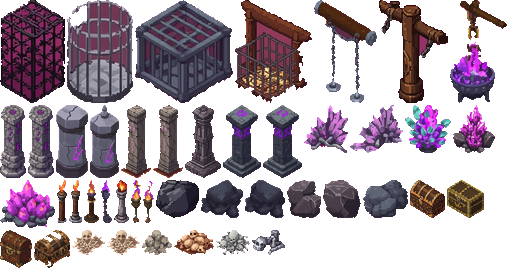
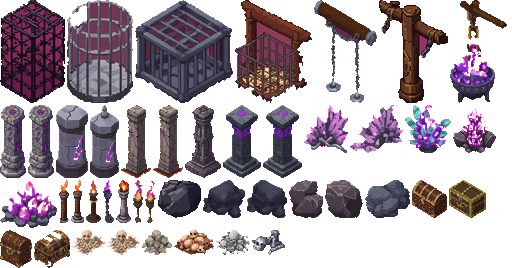
Villa Candela rehecha con arte nuevo
- Aldeanos, Brunilda, Maese Ivo y Tobías redibujados en el estilo de los héroes nuevos
- Casas, puesto del mercado, tienda del alquimista, fragua, pozo, tablón y roble nuevos
- Césped, caminos de tierra y empedrado de la plaza pintados

Claude-Session: https://claude.ai/code/session_015RNUyaQ6fKR3Ufego5oPP2

diff --git a/www/js/props_data.js b/www/js/props_data.js
@@ -1,4 +1,4 @@
 /* Generado por tools/art/build_props.py — no editar a mano. */
 'use strict';
 const PROP_WU_PER_PX = 1.2;
-const PROP_ATLAS = {"ceniza":{"tree":[[0,0,94,103],[96,0,71,103],[169,0,46,103],[217,0,73,103]],"pillar":[[292,0,38,73],[332,0,23,73],[357,0,44,73],[403,0,30,73]],"crystal":[[435,0,49,48],[0,105,50,48]],"brazier":[[52,105,24,43],[78,105,30,43]],"rock":[[110,105,39,38],[151,105,36,38],[189,105,43,38],[234,105,53,38]],"fern":[[289,105,24,18],[315,105,13,18],[330,105,19,18]],"bones":[[351,105,21,17]]},"pantano":{"tree":[[0,0,86,103],[88,0,79,103],[169,0,75,103],[246,0,111,103]],"pillar":[[359,0,39,73],[400,0,52,73]],"crystal":[[454,0,53,48],[0,105,50,48]],"rock":[[52,105,36,38],[90,105,46,38],[138,105,45,38]],"shroom":[[185,105,16,18],[203,105,16,18],[221,105,14,18],[237,105,15,18]]},"glaciar":{"tree":[[0,0,84,103],[86,0,69,103],[157,0,79,103],[238,0,72,103],[312,0,66,103],[380,0,89,103]],"pillar":[[471,0,33,73],[0,105,25,73],[27,105,38,73],[67,105,36,73]],"crystal":[[105,105,55,48],[162,105,51,48],[215,105,49,48],[266,105,44,48]],"brazier":[[312,105,31,43],[345,105,28,43],[375,105,33,43]],"rock":[[410,105,32,38],[444,105,37,38],[0,180,40,38],[42,180,41,38],[85,180,33,38]],"shard":[[120,180,21,17],[143,180,36,17],[181,180,34,17]]},"desierto":{"tree":[[0,0,76,103],[78,0,74,103],[154,0,72,103],[228,0,62,103]],"pillar":[[292,0,35,73],[329,0,36,73],[367,0,36,73],[405,0,47,73]],"crystal":[[454,0,50,48],[0,105,46,48],[48,105,47,48]],"brazier":[[97,105,43,43],[142,105,28,43],[172,105,59,43]],"rock":[[233,105,32,38],[267,105,51,38],[320,105,26,38],[348,105,52,38]],"skull":[[402,105,19,22],[423,105,22,22]]},"villa":{"house":[[0,0,157,147],[159,0,147,147],[308,0,138,147],[0,149,147,147],[149,149,137,147]],"alchemy":[[288,149,175,140]],"stall":[[0,298,126,130]],"oak":[[128,298,106,107],[236,298,91,107],[329,298,74,107]],"well":[[405,298,64,83]],"board":[[0,430,49,73]],"alchemist":[[51,430,29,63]],"lamp":[[82,430,14,62],[98,430,14,62],[114,430,19,62]],"sign":[[135,430,62,58]],"smith":[[199,430,30,57]],"vil2":[[231,430,32,55]],"merchant":[[265,430,21,53]],"vil0":[[288,430,41,50]],"vil1":[[331,430,21,45]],"vil3":[[354,430,16,37]],"cauldron":[[372,430,33,35]],"bush":[[407,430,29,33]],"barrel":[[438,430,21,25],[461,430,27,25],[0,505,24,25]]},"dungeon":{"tree":[[0,0,65,103],[67,0,66,103],[135,0,98,103],[235,0,77,103],[314,0,63,103],[379,0,69,103],[450,0,57,103]],"pillar":[[0,105,26,73],[28,105,26,73],[56,105,32,73],[90,105,29,73],[121,105,30,73],[153,105,30,73],[185,105,36,73],[223,105,38,73],[263,105,39,73]],"crystal":[[304,105,44,48],[350,105,53,48],[405,105,46,48],[453,105,42,48],[0,180,55,48]],"brazier":[[57,180,10,43],[69,180,13,43],[84,180,15,43],[101,180,11,43],[114,180,15,43],[131,180,10,43],[143,180,11,43]],"rock":[[156,180,43,38],[201,180,42,38],[245,180,40,38],[287,180,34,38],[323,180,38,38],[363,180,45,38],[410,180,35,38],[447,180,37,38],[0,230,32,38],[34,230,36,38]],"bonepile":[[72,230,33,25],[107,230,33,25],[142,230,30,25],[174,230,40,25],[216,230,34,25],[252,230,33,25]]},"abismo":{"tree":[[0,0,66,103],[68,0,65,103],[135,0,102,103]],"pillar":[[239,0,33,73],[274,0,55,73],[331,0,55,73],[388,0,39,73]],"crystal":[[429,0,50,48],[0,105,57,48],[59,105,40,48]],"brazier":[[101,105,26,43],[129,105,35,43]],"rock":[[166,105,29,38],[197,105,34,38],[233,105,30,38],[265,105,39,38],[306,105,26,38]]}};
+const PROP_ATLAS = {"ceniza":{"tree":[[0,0,94,103],[96,0,71,103],[169,0,46,103],[217,0,73,103]],"pillar":[[292,0,38,73],[332,0,23,73],[357,0,44,73],[403,0,30,73]],"crystal":[[435,0,49,48],[0,105,50,48]],"brazier":[[52,105,24,43],[78,105,30,43]],"rock":[[110,105,39,38],[151,105,36,38],[189,105,43,38],[234,105,53,38]],"fern":[[289,105,24,18],[315,105,13,18],[330,105,19,18]],"bones":[[351,105,21,17]]},"pantano":{"tree":[[0,0,86,103],[88,0,79,103],[169,0,75,103],[246,0,111,103]],"pillar":[[359,0,39,73],[400,0,52,73]],"crystal":[[454,0,53,48],[0,105,50,48]],"rock":[[52,105,36,38],[90,105,46,38],[138,105,45,38]],"shroom":[[185,105,16,18],[203,105,16,18],[221,105,14,18],[237,105,15,18]]},"glaciar":{"tree":[[0,0,84,103],[86,0,69,103],[157,0,79,103],[238,0,72,103],[312,0,66,103],[380,0,89,103]],"pillar":[[471,0,33,73],[0,105,25,73],[27,105,38,73],[67,105,36,73]],"crystal":[[105,105,55,48],[162,105,51,48],[215,105,49,48],[266,105,44,48]],"brazier":[[312,105,31,43],[345,105,28,43],[375,105,33,43]],"rock":[[410,105,32,38],[444,105,37,38],[0,180,40,38],[42,180,41,38],[85,180,33,38]],"shard":[[120,180,21,17],[143,180,36,17],[181,180,34,17]]},"desierto":{"tree":[[0,0,76,103],[78,0,74,103],[154,0,72,103],[228,0,62,103]],"pillar":[[292,0,35,73],[329,0,36,73],[367,0,36,73],[405,0,47,73]],"crystal":[[454,0,50,48],[0,105,46,48],[48,105,47,48]],"brazier":[[97,105,43,43],[142,105,28,43],[172,105,59,43]],"rock":[[233,105,32,38],[267,105,51,38],[320,105,26,38],[348,105,52,38]],"skull":[[402,105,19,22],[423,105,22,22]]},"villa":{"house":[[0,0,148,158],[150,0,150,158],[302,0,174,158],[0,160,187,158]],"alchemy":[[189,160,120,125]],"oak":[[311,160,140,125],[0,320,124,125],[126,320,106,125]],"stall":[[234,320,104,108]],"forge":[[340,320,103,100]],"well":[[445,320,61,83]],"board":[[0,447,58,77]],"alchemist":[[60,447,32,63]],"lamp":[[94,447,14,62],[110,447,14,62],[126,447,19,62]],"sign":[[147,447,62,58]],"smith":[[211,447,34,57]],"vil2":[[247,447,26,55]],"merchant":[[275,447,25,53]],"vil0":[[302,447,25,50]],"vil1":[[329,447,21,45]],"vil3":[[352,447,20,37]],"cauldron":[[374,447,33,35]],"bush":[[409,447,29,33]],"barrel":[[440,447,21,25],[463,447,27,25],[0,526,24,25]]},"dungeon":{"tree":[[0,0,65,103],[67,0,66,103],[135,0,98,103],[235,0,77,103],[314,0,63,103],[379,0,69,103],[450,0,57,103]],"pillar":[[0,105,26,73],[28,105,26,73],[56,105,32,73],[90,105,29,73],[121,105,30,73],[153,105,30,73],[185,105,36,73],[223,105,38,73],[263,105,39,73]],"crystal":[[304,105,44,48],[350,105,53,48],[405,105,46,48],[453,105,43,48],[0,180,57,48]],"brazier":[[59,180,10,43],[71,180,13,43],[86,180,15,43],[103,180,11,43],[116,180,15,43],[133,180,10,43],[145,180,11,43]],"rock":[[158,180,43,38],[203,180,42,38],[247,180,40,38],[289,180,34,38],[325,180,38,38],[365,180,45,38],[412,180,35,38],[449,180,37,38],[0,230,32,38],[34,230,36,38]],"bonepile":[[72,230,33,25],[107,230,33,25],[142,230,30,25],[174,230,40,25],[216,230,34,25],[252,230,33,25]]},"abismo":{"tree":[[0,0,66,103],[68,0,65,103],[135,0,102,103]],"pillar":[[239,0,33,73],[274,0,55,73],[331,0,55,73],[388,0,39,73]],"crystal":[[429,0,50,48],[0,105,57,48],[59,105,40,48]],"brazier":[[101,105,26,43],[129,105,35,43]],"rock":[[166,105,29,38],[197,105,34,38],[233,105,30,38],[265,105,39,38],[306,105,26,38]]}};

diff --git a/www/js/village.js b/www/js/village.js
@@ -33,6 +33,7 @@ function buildVillage() {
   add({ kind: 'cauldron', x: 372, y: 118 }, 20);
   add({ kind: 'well', x: -405, y: -40 }, 30);
   add({ kind: 'sign', x: 70, y: 235 }, 8);
+  add({ kind: 'forge', x: 215, y: 300 }, 30, -8); // fragua de Tobías
   for (const [x, y] of [[-390, 110], [-372, 132], [-250, 150], [380, 150], [395, 128]]) add({ kind: 'barrel', x, y, v: (x * 7) & 1 }, 13);
   for (const [x, y] of [[-238, -40], [238, -40], [-130, 120], [130, 120], [-150, -205], [150, -205]]) { add({ kind: 'lamp', x, y }, 7); VILLAGE.lamps.push({ x, y: y - 62 }); }
   add({ kind: 'portalbase', x: PORTAL.x, y: PORTAL.y + 2 }, 42, -6);
@@ -62,8 +63,8 @@ function villageGround() {
   c.width = Math.ceil(VG.w * gs); c.height = Math.ceil(VG.h * gs);
   const g = c.getContext('2d', { alpha: false });
   g.scale(gs, gs); g.translate(-VG.x0, -VG.y0);
-  const pat = g.createPattern(biomeGroundTex(HUB_GROUND), 'repeat');
-  if (pat.setTransform) pat.setTransform(new DOMMatrix().scale(2.2));
+  const pat = g.createPattern(GROUND_IMG.grass || biomeGroundTex(HUB_GROUND), 'repeat');
+  if (pat.setTransform) pat.setTransform(new DOMMatrix().scale(GROUND_IMG.grass ? 520 / GROUND_IMG.grass.width : 2.2));
   g.fillStyle = pat; g.fillRect(VG.x0, VG.y0, VG.w, VG.h);
   const r = vRand(1234);
   // manchas de césped claro y oscuro
@@ -75,8 +76,11 @@ function villageGround() {
     g.fillStyle = gr; g.beginPath(); g.ellipse(x, y, rr, rr * 0.6, 0, 0, TAU); g.fill();
   }
   // caminos de tierra
+  let dirt = null;
+  if (GROUND_IMG.path) { dirt = g.createPattern(GROUND_IMG.path, 'repeat'); if (dirt.setTransform) dirt.setTransform(new DOMMatrix().scale(300 / GROUND_IMG.path.width)); }
   const road = (pts, w) => {
-    for (const [col, lw] of [['#5e4630', w + 10], ['#8a6a46', w], ['#9c7a52', w * 0.55]]) {
+    const layers = dirt ? [['rgba(60,44,28,0.55)', w + 12], [dirt, w]] : [['#5e4630', w + 10], ['#8a6a46', w], ['#9c7a52', w * 0.55]];
+    for (const [col, lw] of layers) {
       g.strokeStyle = col; g.lineWidth = lw; g.lineCap = 'round'; g.lineJoin = 'round';
       g.beginPath(); g.moveTo(pts[0][0], pts[0][1]);
       for (let i = 1; i < pts.length; i++) g.lineTo(pts[i][0], pts[i][1]);
@@ -88,7 +92,7 @@ function villageGround() {
   road([[120, 60], [300, 110], [520, 150], [800, 170]], 70);
   road([[-80, -150], [-200, -250], [-470, -200]], 50);
   road([[80, -150], [215, -255], [480, -200]], 50);
-  for (let i = 0; i < 420; i++) { // piedrecitas del camino
+  for (let i = 0; i < (dirt ? 0 : 420); i++) { // piedrecitas del camino
     const x = -760 + r() * 1520, y = -540 + r() * 1120;
     g.fillStyle = r() < 0.5 ? 'rgba(60,40,24,0.35)' : 'rgba(200,170,120,0.25)';
     g.fillRect(x, y, 2 + r() * 3, 2 + r() * 2);
@@ -101,7 +105,7 @@ function villageGround() {
   if (GROUND_IMG.plaza) {
     // adoquines pintados (pixel art)
     const pat = g.createPattern(GROUND_IMG.plaza, 'repeat');
-    if (pat.setTransform) pat.setTransform(new DOMMatrix().scale(GROUND_TILE / GROUND_IMG.plaza.width));
+    if (pat.setTransform) pat.setTransform(new DOMMatrix().scale(280 / GROUND_IMG.plaza.width));
     g.fillStyle = pat; g.fillRect(-300, -240, 600, 400);
   } else for (let y = -230; y < 150; y += 16) {
     const off = ((y / 16) & 1) * 13;
@@ -113,7 +117,7 @@ function villageGround() {
     }
   }
   // musgo entre piedras
-  for (let i = 0; i < 90; i++) { g.fillStyle = 'rgba(80,120,50,0.45)'; g.beginPath(); g.ellipse(-280 + r() * 560, -210 + r() * 350, 4 + r() * 8, 2 + r() * 3, 0, 0, TAU); g.fill(); }
+  for (let i = 0; i < (GROUND_IMG.plaza ? 0 : 90); i++) { g.fillStyle = 'rgba(80,120,50,0.45)'; g.beginPath(); g.ellipse(-280 + r() * 560, -210 + r() * 350, 4 + r() * 8, 2 + r() * 3, 0, 0, TAU); g.fill(); }
   g.restore();
   g.lineWidth = 6; g.strokeStyle = '#6e6252';
   g.beginPath(); g.ellipse(0, -40, 272, 177, 0, 0, TAU); g.stroke();
@@ -427,6 +431,7 @@ function drawVillageProp(o) {
     return;
   }
   if (o.kind === 'tree') { drawTree(o); return; }
+  if (!V_ART[o.kind]) return; // solo existe como sprite pintado (aún cargando)
   const A = V_ART[o.kind](o);
   if (o.kind !== 'portalbase' && o.kind !== 'fence') shadow(o.x, o.y + 1, A[1] * 0.35);
   ctx.save();
@@ -475,7 +480,7 @@ function drawNpc(n) {
   }
   const fi = Math.floor(((now * 0.35 + n.x * 0.01) % 1 + 1) % 1 * 8);
   shadow(n.x, n.y + 1, 15);
-  if (n.id === 'smith') drawAnvil(n.x, n.y);
+  if (n.id === 'smith' && !(PROP_ATLAS.villa && PROP_ATLAS.villa.forge && PROP_IMG.villa)) drawAnvil(n.x, n.y);
   ctx.save();
   ctx.translate(n.x, n.y);
   if (vHero.x > n.x + 20) ctx.scale(-1, 1); // mira hacia el héroe

diff --git a/www/js/props.js b/www/js/props.js
@@ -83,8 +83,8 @@ function villaFrame(kind, x, y) {
   return { img, f: list[Math.floor(h * list.length) % list.length], flip: kind !== 'sign' && kind !== 'board' && ((h * 7919) % 1) < 0.5 };
 }
 // fracción de la altura del sprite que queda por debajo del punto de apoyo (mitad del rombo de la base)
-const VILLA_SINK = { house: 0.13, stall: 0.13, alchemy: 0.12, well: 0.05, oak: 0.05 };
-const VILLA_KIND = { house: 'house', stall: 'stall', alchemy: 'alchemy', well: 'well', lamp: 'lamp', barrel: 'barrel', bush: 'bush', sign: 'sign', cauldron: 'cauldron' };
+const VILLA_SINK = { house: 0.13, stall: 0.1, alchemy: 0.08, well: 0.05, oak: 0.05, forge: 0.08 };
+const VILLA_KIND = { forge: 'forge', house: 'house', stall: 'stall', alchemy: 'alchemy', well: 'well', lamp: 'lamp', barrel: 'barrel', bush: 'bush', sign: 'sign', cauldron: 'cauldron' };
 // Dibuja un elemento del pueblo con sprite pintado; devuelve false si no hay sprite
 function drawVillaSprite(o) {
   const kind = o.kind === 'tree' ? 'oak' : o.kind === 'board' ? 'board' : VILLA_KIND[o.kind];

diff --git a/www/js/biomes.js b/www/js/biomes.js
@@ -57,7 +57,7 @@ const BIOME_TEX = new Map();
 const GROUND_TILE = 420;
 const GROUND_IMG = {};
 const GROUND_SIZE = { dungeon: 380, ceniza: 600, pantano: 600, glaciar: 600, desierto: 600, abismo: 600 }; // unidades de mundo por repetición (6×6 losas en la Mazmorra)
-['ceniza', 'pantano', 'glaciar', 'desierto', 'abismo', 'plaza', 'dungeon'].forEach((id) => {
+['ceniza', 'pantano', 'glaciar', 'desierto', 'abismo', 'plaza', 'dungeon', 'grass', 'path'].forEach((id) => {
   const img = new Image();
   img.onload = () => {
     GROUND_IMG[id] = img;

diff --git a/tools/art/build_props.py b/tools/art/build_props.py
@@ -13,8 +13,8 @@ from scipy import ndimage
 WORLD_H = {'tree': 124, 'pillar': 88, 'rock': 46, 'crystal': 58, 'brazier': 52,
            'fern': 22, 'bones': 20, 'shroom': 22, 'skull': 26, 'shard': 20,
            # Villa Candela
-           'house': 176, 'stall': 156, 'alchemy': 168, 'well': 100, 'lamp': 74, 'barrel': 30, 'bush': 40,
-           'sign': 70, 'cauldron': 42, 'board': 88, 'oak': 128,
+           'house': 190, 'stall': 130, 'alchemy': 150, 'well': 100, 'lamp': 74, 'barrel': 30, 'bush': 40,
+           'sign': 70, 'cauldron': 42, 'board': 92, 'oak': 150, 'forge': 120,
            'merchant': 64, 'alchemist': 76, 'vil0': 60, 'vil1': 54, 'vil2': 66, 'vil3': 44, 'smith': 68,
            # Mazmorra
            'bonepile': 30}
@@ -54,21 +54,22 @@ SEL = {
         'skull': ['g4-0/08', 'g4-1/14'],
     },
     'villa': {
-        'house': ['v-1/00', 'v-1/01', 'v-3/00', 'v-2/03', 'v-1/03'],
-        'stall': ['v-2/01'],
-        'alchemy': ['v-1/02'],
-        'well': ['v-3/07'],
+        'house': ['vh-0/00', 'vh-0/01', 'vh-0/02', 'vh-0/03'],
+        'stall': ['vs-0/00'],
+        'alchemy': ['vs-0/01'],
+        'forge': ['vs-0/02'],
+        'well': ['vs-0/04'],
         'lamp': ['v-1/04', 'v-1/09', 'v-3/09'],
         'barrel': ['v-3/15', 'v-3/14', 'v-3/12'],
         'bush': ['v-1/10'],
         'sign': ['v-2/11'],
         'cauldron': ['v-3/17'],
-        'board': ['v-3/10'],
-        'oak': ['v-3/13', 'v-2/09', 'v-0/10'],
+        'board': ['vs-0/05'],
+        'oak': ['vs-0/03', 'v-3/13', 'v-2/09'],
         # vecinos (vil0 granjero, vil1 anciana, vil2 guardia, vil3 niño: mismo orden que VILLAGERS)
-        'merchant': ['n2-0/00'], 'alchemist': ['n1-0/00'],
-        'vil0': ['n0-0/00'], 'vil1': ['n0-0/02'], 'vil2': ['n0-0/01'], 'vil3': ['n0-0/03'],
-        'smith': ['h-0/00'],
+        'merchant': ['nn-merchant/00'], 'alchemist': ['nn-alchemist/00'],
+        'vil0': ['nn-vil0/00'], 'vil1': ['nn-vil1/00'], 'vil2': ['nn-vil2/00'], 'vil3': ['nn-vil3/00'],
+        'smith': ['nn-smith/00'],
     },
     # Mazmorra (solo se usa dentro de la Mazmorra: tree = jaulas, cadalsos y cadenas; rock = rocas y cofres)
     'dungeon': {
@@ -98,6 +99,8 @@ def clean(im):
     purple = (rgb[:, :, 0] > rgb[:, :, 1] + 25) & (rgb[:, :, 2] > rgb[:, :, 1] + 15) & (np.abs(rgb[:, :, 0] - rgb[:, :, 2]) < 70)
     edge = al & ~ndimage.binary_erosion(al, iterations=3)
     al &= ~(purple & edge)
+    # restos del fondo magenta encerrados dentro del objeto (bajo toldos, entre telas)
+    al &= ~((rgb[:, :, 0] > 185) & (rgb[:, :, 2] > 185) & (rgb[:, :, 1] < 95))
     lab, n = ndimage.label(al)
     if n > 1:
         sizes = ndimage.sum(al, lab, range(1, n + 1))
